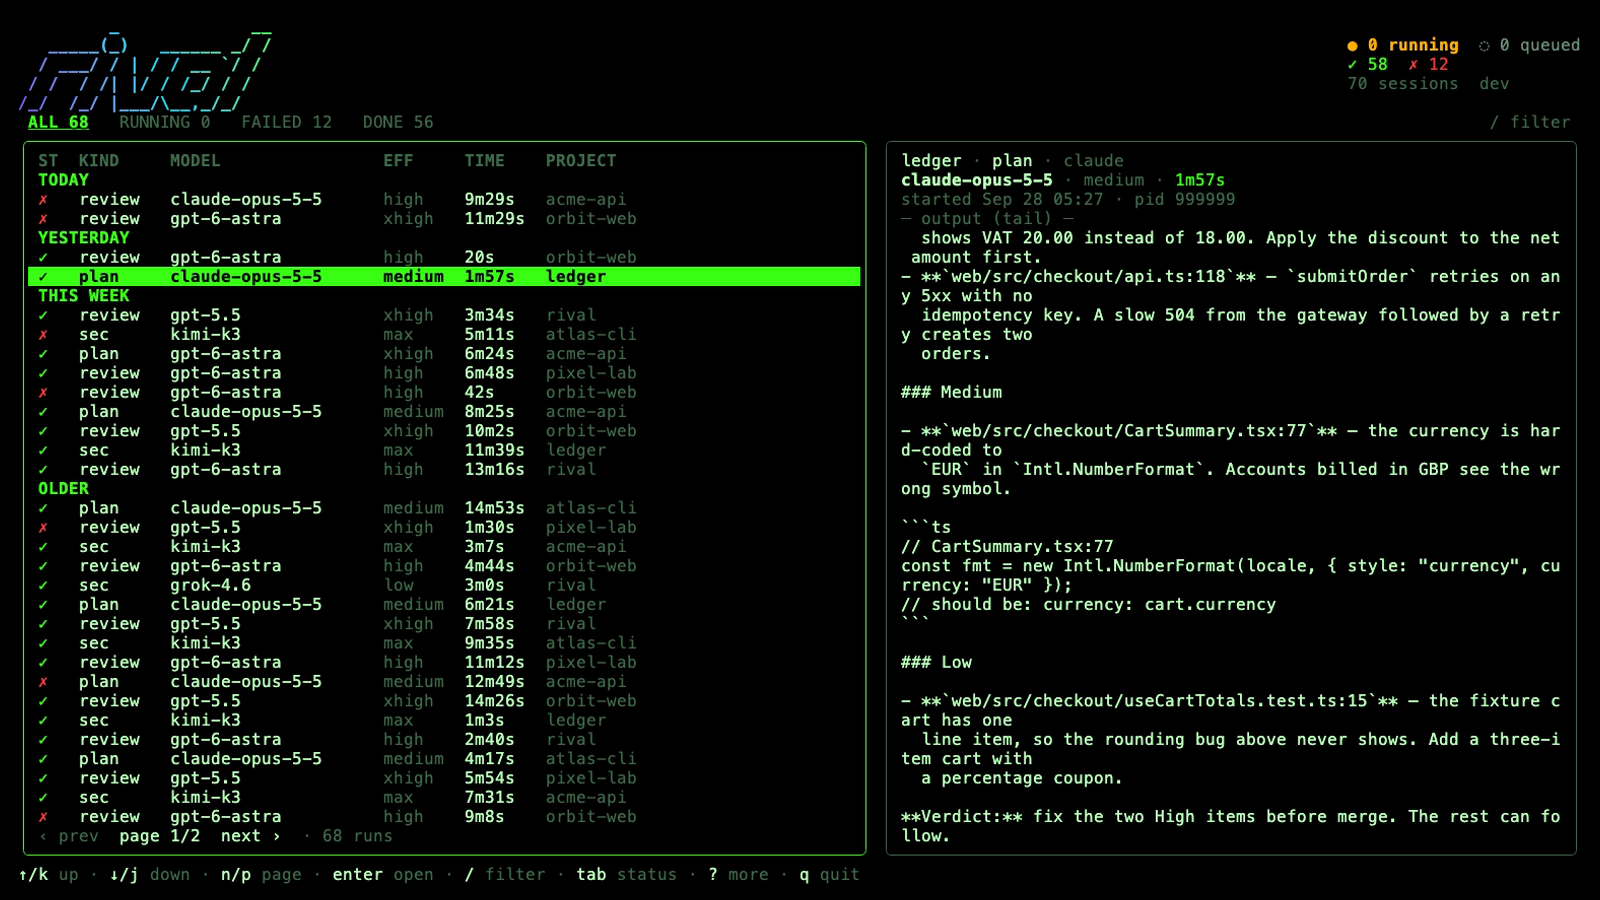
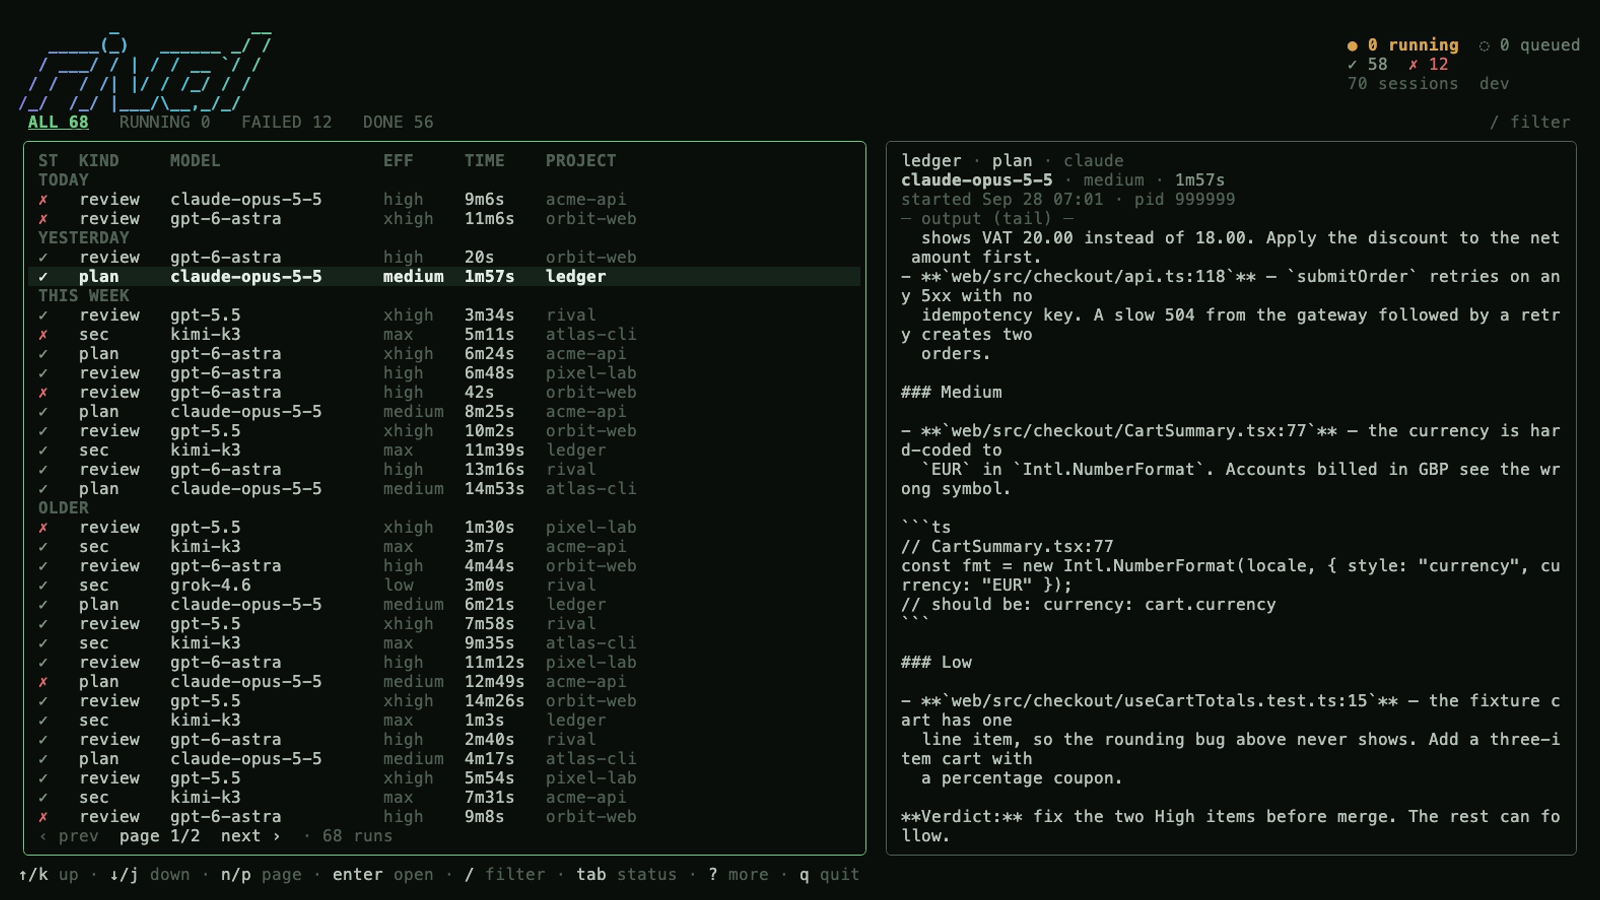
feat(tui): match Rival.app's dim-phosphor palette; no logs over the TUI
styles.go takes the app's palette C values: soft accent, dark-tint cursor
bar, dim section rows and completed runs. rival tui sets a no-op logger
before the background reap, whose per-orphan log lines drew over the
screen. assets/tui.png re-shot on the fake fixture.

diff --git a/rival/internal/dashboard/styles.go b/rival/internal/dashboard/styles.go
@@ -10,35 +10,39 @@ import (
 	"github.com/charmbracelet/x/ansi"
 )
 
-// Phosphor palette. Colours are truecolor; lipgloss downsamples them on
-// 256/16-colour terminals, so no fallback table is kept here.
+// Dim-phosphor palette, the same values as Rival.app's Theme.swift. Colour
+// marks state only: running amber, failed red; completed stays quiet.
+// Colours are truecolor; lipgloss downsamples them on 256/16-colour
+// terminals, so no fallback table is kept here.
 var (
-	colFg      color.Color = lipgloss.Color("#B8FFB8") // body text
-	colDim     color.Color = lipgloss.Color("#3E6B4A") // secondary text, borders, help
-	colAccent  color.Color = lipgloss.Color("#39FF14") // selection bar, active tab, focus border
-	colRunning color.Color = lipgloss.Color("#FFB000") // amber: spinner, running status
-	colQueued  color.Color = lipgloss.Color("#6B8F7A") // grey-green: waiting in line
-	colOK      color.Color = lipgloss.Color("#39FF14") // completed
-	colFail    color.Color = lipgloss.Color("#FF3B3B") // failed
+	colFg      color.Color = lipgloss.Color("#B4C2B7") // body text
+	colDim     color.Color = lipgloss.Color("#4F6154") // secondary text, borders, help
+	colAccent  color.Color = lipgloss.Color("#6FC985") // active marks: tab, focus border, cursor
+	colRunning color.Color = lipgloss.Color("#D6A34E") // amber: spinner, running status
+	colQueued  color.Color = lipgloss.Color("#6A7F70") // grey-green: waiting in line
+	colDone    color.Color = lipgloss.Color("#7F9483") // completed: quiet, the normal case
+	colFail    color.Color = lipgloss.Color("#DB6B6B") // failed
+	colSelBg   color.Color = lipgloss.Color("#16241A") // cursor bar fill
+	colSelFg   color.Color = lipgloss.Color("#E2EDE4") // text on the cursor bar
 )
 
 // logoStops are the gradient stops for the ASCII logo: violet → cyan → green.
 var logoStops = []color.Color{
-	lipgloss.Color("#7C3AED"),
-	lipgloss.Color("#22D3EE"),
-	lipgloss.Color("#39FF14"),
+	lipgloss.Color("#8B6CD9"),
+	lipgloss.Color("#4FB8CC"),
+	lipgloss.Color("#6FC985"),
 }
 
 var (
 	textStyle = lipgloss.NewStyle().Foreground(colFg)
 	dimStyle  = lipgloss.NewStyle().Foreground(colDim)
 
-	// selectedStyle is the cursor bar. Black on accent reads on every
-	// background, and bold keeps it legible once lipgloss downsamples.
+	// selectedStyle is the cursor bar: a dark green tint with light bold
+	// text, not a neon fill. Bold keeps it legible once lipgloss downsamples.
 	selectedStyle = lipgloss.NewStyle().
 			Bold(true).
-			Foreground(lipgloss.Color("#000000")).
-			Background(colAccent)
+			Foreground(colSelFg).
+			Background(colSelBg)
 
 	borderStyle = lipgloss.NewStyle().
 			Border(lipgloss.RoundedBorder()).
@@ -46,13 +50,13 @@ var (
 
 	// Column titles and section rows in the list.
 	headerStyle  = lipgloss.NewStyle().Foreground(colDim).Bold(true)
-	sectionStyle = lipgloss.NewStyle().Foreground(colAccent).Bold(true)
+	sectionStyle = lipgloss.NewStyle().Foreground(colDim).Bold(true)
 
 	activeTabStyle   = lipgloss.NewStyle().Foreground(colAccent).Bold(true).Underline(true)
 	inactiveTabStyle = dimStyle
 
 	runningStyle   = lipgloss.NewStyle().Foreground(colRunning).Bold(true)
-	completedStyle = lipgloss.NewStyle().Foreground(colOK)
+	completedStyle = lipgloss.NewStyle().Foreground(colDone)
 	failedStyle    = lipgloss.NewStyle().Foreground(colFail)
 	queuedStyle    = lipgloss.NewStyle().Foreground(colQueued)
 

diff --git a/rival/cmd/root.go b/rival/cmd/root.go
@@ -11,6 +11,8 @@ import (
 	"github.com/1905/rival/internal/session"
 	"github.com/1905/rival/internal/telemetry"
 	"github.com/1905/rival/internal/update"
+	"github.com/rs/zerolog"
+	"github.com/rs/zerolog/log"
 	"github.com/spf13/cobra"
 )
 
@@ -52,6 +54,9 @@ var rootCmd = &cobra.Command{
 		// watcher picks up every session the reaper fails. Every other
 		// command reaps before it runs, as before.
 		if cmd == tuiCmd {
+			// The TUI owns the terminal: a log line on stderr (the background
+			// reaper logs each orphan it fails) draws over the screen.
+			log.Logger = zerolog.Nop()
 			startReap()
 		} else {
 			reap()

diff --git a/CHANGELOG.md b/CHANGELOG.md
@@ -6,6 +6,12 @@ Latest release: [v4.1.1](https://github.com/1905/rival/releases/tag/v4.1.1) — 
 
 ## [Unreleased]
 
+### Changed
+- `rival tui` uses the same dim-phosphor palette as Rival.app: a dark-tint cursor bar instead of the neon fill, dim section headers and completed runs; only running (amber) and failed (red) are coloured.
+
+### Fixed
+- `rival tui`: the background orphan reaper no longer prints JSON log lines over the TUI screen.
+
 ## [v4.1.1] — 2026-09-29
 
 ### Added
